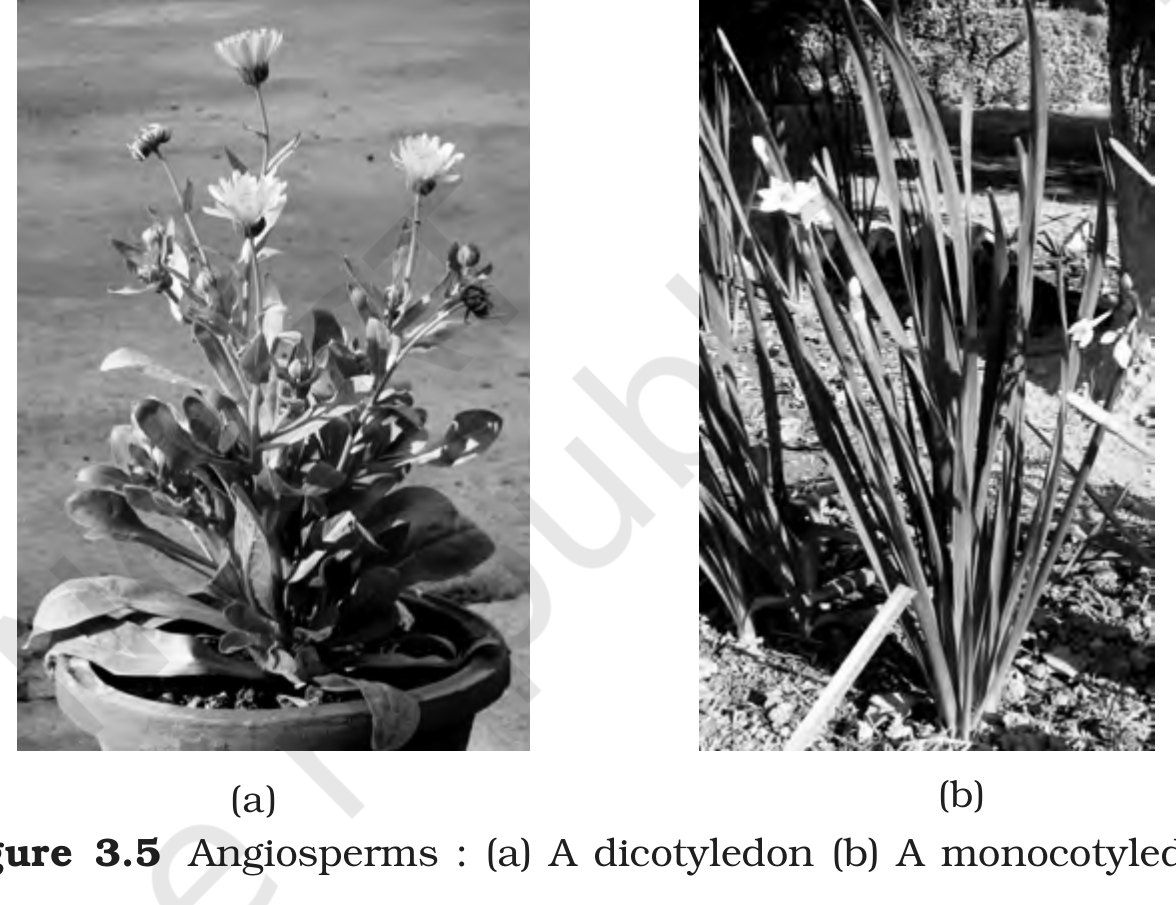
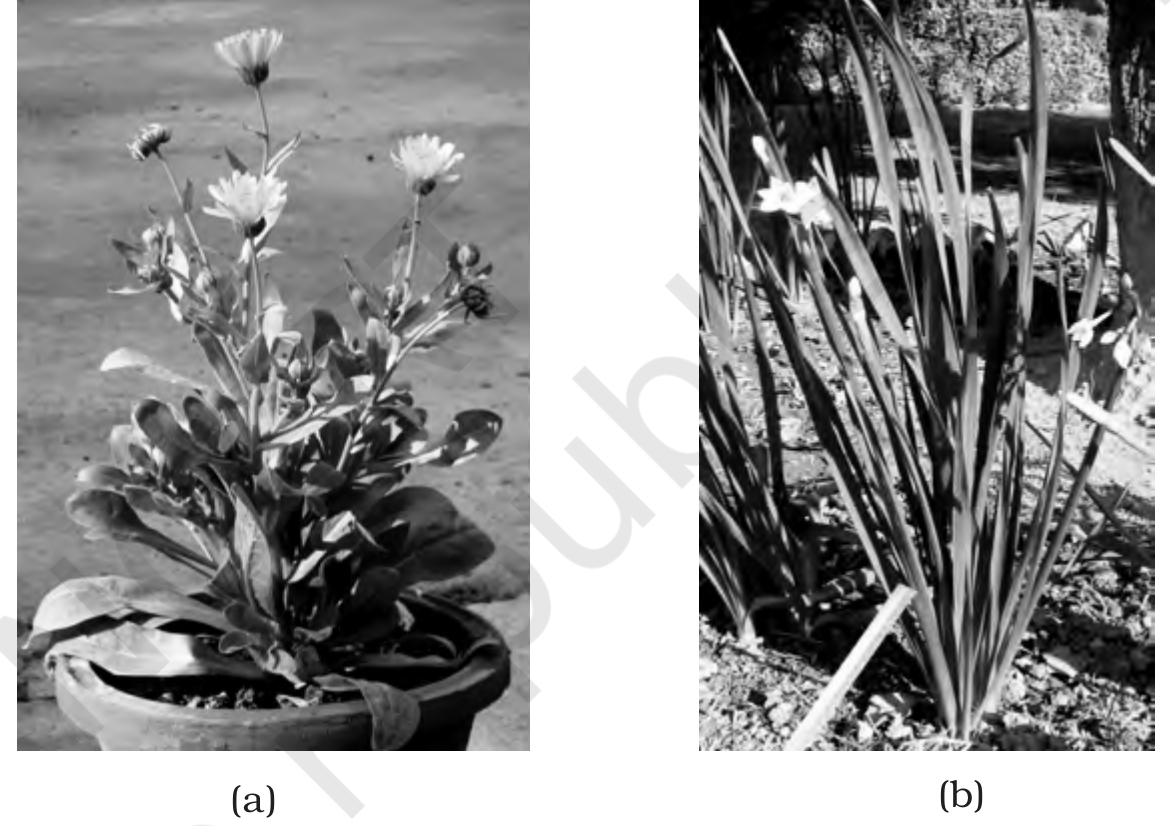
feat: update figure extraction and verification for Chapter 3
Updated Python environment and verified all figure assets; fixed Figure 3.1 and 3.5 extraction issues.

diff --git a/notes/class 11/Ch3_PlantKingdom/extract_figures.py b/notes/class 11/Ch3_PlantKingdom/extract_figures.py
@@ -146,7 +146,9 @@ FIGURES = [
     ("fig_3_4b", 11, (332.0, 269.0, 502.0, 500.0), []),
     ("fig_3_4c", 11, (315.0, 500.0, 520.0, 667.0), []),
     # Figure 3.5 Angiosperms -- (a) dicotyledon + (b) monocotyledon side by side.
-    ("fig_3_5ab", 12, (219.0, 271.0, 501.0, 488.0), []),
+    # Bottom edge y=469 keeps both part labels while excluding the caption, whose
+    # first ink begins below y=470; the earlier y=488 crop included caption text.
+    ("fig_3_5ab", 12, (219.0, 271.0, 501.0, 469.0), []),
 ]
 
 

diff --git a/CHAPTER_STATUS.md b/CHAPTER_STATUS.md
@@ -75,13 +75,13 @@ Pass 2 verification completed under the supreme command prompt v6 on 2026-08-19.
 
 | Workflow stage | Evidence |
 |----------------|----------|
-| **Environment resume** | Sandbox was fresh (deps not persisted). `pip`/`python3` resolved to a stale Python 3.9; rebuilt a clean venv at `/vercel/share/venv` (`reportlab 5.0.0` · `pdfplumber` · `pymupdf 1.28.2` · `Pillow 12.3.0`) matching the versions used by closed chapters. **Use `/vercel/share/venv/bin/python` in all future sessions**, not bare `python3`. |
-| **Branch hygiene issue** | This session ran `git checkout -b ch3-plant-kingdom` before realising the connected head branch is `plant-kingdom-curriculum`, which was already the checked-out branch. All real work happened on `plant-kingdom-curriculum`. The stray local branch `ch3-plant-kingdom` (pointing at the pre-session commit `8a55467`) is unused dead weight — safe to delete (`git branch -D ch3-plant-kingdom`), never pushed. |
-| **§0.3 re-verified** | All 11 committed assets under `notes/class 11/Ch3_PlantKingdom/assets/` confirmed `mode=L`, 0 colored pixels (monochrome conversion holds). |
-| **Fig 3.1 (Volvox/Laminaria/Porphyra) — geometry fully re-derived from measured ink, not guesswork** | Two prior sessions' crops for `fig_3_1a/b/c` all had real defects (labels clipped, neighbouring-figure intrusion, or a figure sliced in half) because the source is a single unlabelled raster (`page 3 image bbox x68.8–494.7, y102.0–672.3`) with sub-parts laid out as **interleaved columns, not clean rows** — row (a)'s "(a-ii)" label sits at y270–287 *inside* row (b)'s naive y-range, and (c-ii) *Polysiphonia* is tall enough to reach up into row (b)'s band on the right. This session ran a thresholded ink-profile scan (PIL, threshold<150 to reject the faint NCERT watermark) plus multiple coordinate-gridded renders (150–600 dpi) to measure every sub-part's true bbox, and rewrote `extract_figures.py`'s Fig 3.1 rects + a detailed geometry comment block accordingly: `fig_3_1a → (88, 106, 392, 293)`, `fig_3_1b → (64, 290, 490, 491)` + one scrub rect, `fig_3_1c → (98, 484, 452, 675)`. Re-extraction confirmed (by eye) that `fig_3_1a` and `fig_3_1c` are now clean — all labels present, no intrusion, no clipping. |
-| **⚠ Known open defect — do not trust as-is** | The `fig_3_1b` scrub rect currently committed, `(383.0, 469.0, 468.0, 491.0)`, was written to remove an assumed "(c-ii) intrusion" but a follow-up 600 dpi zoom (`/tmp/v3/scrubzone.png`, not persisted) showed that zone contains **only `fig_3_1b`'s own ink** — the "Stipe" label and the "(b-iii)" part-label — so this scrub rect is currently **erasing real content that belongs in the asset**, not fixing a defect. The session was in the middle of re-locating where the actual (c-ii) top-right intrusion sits (had rendered `/tmp/v3/fullband.png`, a gridded y430–560 boundary strip, but had not yet read/interpreted it) when it ended. **`fig_3_1b` must be re-verified by eye before Gate 1** — do not assume the current committed crop is correct just because it re-extracts without error. |
-| **Not yet touched this session** | Figs 3.2 (Marchantia + mosses), 3.3 (Selaginella/fern), 3.4 (Cycas/Pinus/Ginkgo), 3.5 — all previously extracted and reportedly clean per prior-session notes, but **not independently re-verified this cycle**; treat as unconfirmed until eyeballed. Also untouched: freezing the numbered `Ch3_inventory.md` Facts table, the figure-label matrix, exercise-gap terms (Q2, Q4, Q8(iv) flagged in a prior session as needing real appendix work since the body text doesn't cover them), and Table 3.1's column-shuffled-in-extraction values (already hand-verified from the render in a prior session: 7 columns × 3 data rows, title says "Divisions" while columns say "Classes" — an NCERT internal inconsistency to preserve verbatim). |
-| **Scratch artifacts on disk** | `scratch/ch3/{renders,verify,v2}/` and `scratch/ch3/{grid_p3.png,source_text.txt}` hold prior-session working renders — useful reference, not authoritative (superseded by this session's freshly-measured Fig 3.1 geometry). Not cleaned up; still throwaway per §0.5, delete before final delivery. |
+| **Environment resume** | Fresh sandbox rebuilt at `/vercel/share/venv`: Python 3.13.11 · `reportlab 5.0.0` · `pdfplumber 0.11.10` · `pymupdf 1.28.2` · `Pillow 12.3.0`. Use `/vercel/share/venv/bin/python`, not bare `python3`. |
+| **§0.3 / §4.4 re-verified** | Re-ran the current extractor over all 11 assets. Every reopened PNG is single-channel `mode=L`; dimensions and extrema were checked programmatically, and every asset was freshly inspected for identity, intact labels/leader lines, legibility, contamination, and preserved monochrome meaning. |
+| **Fig 3.1 reopened-PNG proof** | The committed `fig_3_1b.png` was stale (`1776×871`) and did not match the current `(64,274,490,491)` extractor crop. Fresh output is `1776×905`. Its three PDF-point scrubs map at 300 dpi to pixel boxes `(1166,812,1304,904)`, `(1191,0,1358,41)`, and `(1037,883,1125,904)`; after save + reopen, each has `min=max=255`, unique values `[255]`. Pixels immediately outside retain source greys/ink, proving the scrubs act at the intended stage and do not erase the nearby `Stipe` / `(b-iii)` labels. Fig 3.1(a), (b), and (c) were inspected independently. |
+| **Additional figure fix** | Fresh inspection found Figure 3.5's crop included its printed source caption, violating the no-neighbouring-text requirement. Its bottom edge was tightened from y=488 to y=469, retaining both `(a)` / `(b)` part labels while excluding caption ink that begins below y=470; regenerated asset is `1176×826`, `mode=L`. |
+| **Figure-extraction status** | All 11 assets now regenerate from the current extractor and pass the §4.4 asset-level checks. Faint NCERT watermarking was retained: it is source artwork, carries no factual meaning, and does not obscure labels. This completes figure extraction/verification only; **Gate 1 remains closed** until the numbered inventory, figure-label matrix, summary classification, and exercise-gap plan are created and frozen. |
+| **Remaining Pass 1 work** | Create and independently audit `Ch3_PlantKingdom_inventory.md`; enter every fact and every in-figure label, classify every summary sentence, and give each exercise-gap term a planned home. Table 3.1 must be read from the source render rather than trusting extracted column order. |
+| **Scratch artifacts on disk** | `scratch/ch3/` contains prior working renders; these are non-authoritative and must be removed before final delivery. |
 
 ---
 
